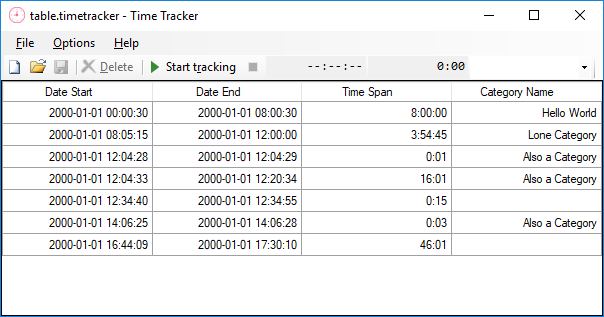
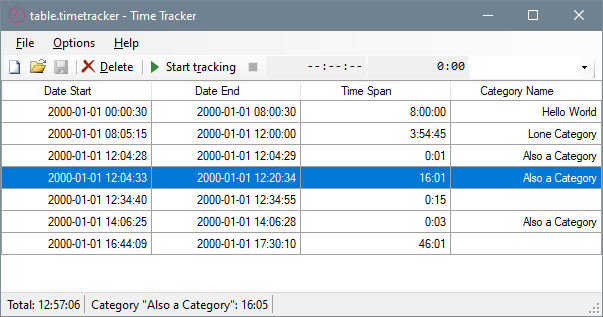
Adds statistics for selected rows and selected category
when only single row is selected

Also updates program screenshot.

diff --git a/TimeTracker/Form/Application.cs b/TimeTracker/Form/Application.cs
@@ -1,14 +1,15 @@
 using System;
-using System.IO;
+using System.Collections;
+using System.Collections.Generic;
 using System.ComponentModel;
+using System.Globalization;
+using System.IO;
+using System.Linq;
+using System.Resources;
+using System.Text.RegularExpressions;
 using System.Windows.Forms;
 using TimeTracker.Model;
 using TimeTracker.Properties;
-using System.Text.RegularExpressions;
-using System.Collections.Generic;
-using System.Linq;
-using System.Globalization;
-using System.Resources;
 
 namespace TimeTracker.Form
 {
@@ -121,7 +122,7 @@ namespace TimeTracker.Form
         /// </summary>
         private void BuildLanguageSelection()
         {
-            Dictionary<string,string> items = new Dictionary<string, string>(){
+            Dictionary<string, string> items = new Dictionary<string, string>(){
                 {"none", Resources.Application_language_default },
                 {"en",  "English" },
                 {"cs",  "Čeština" },
@@ -231,8 +232,43 @@ namespace TimeTracker.Form
 
         private void RefreshStatistics()
         {
-            var total = Data.Sum(row => row.GetTimeElapsed());
-            this.statsTotalText.Text = String.Format(Properties.Resources.Application_statsTotal_Text, total.Format());
+            TimeSpan statTotal = Data.Sum(value => value.GetTimeElapsed());
+            this.statsTotalText.Text = String.Format(Properties.Resources.Application_statsTotal_Text, statTotal.Format());
+
+            DataGridView grid = this.dataGridViewMain;
+
+            if (grid.SelectedRows.Count > 1)
+            {
+                var selectionEnumerator = grid.SelectedRows.GetEnumerator();
+                TimeSpan statSelection = new TimeSpan();
+                while (selectionEnumerator.MoveNext())
+                {
+                    var row = (DataGridViewRow)selectionEnumerator.Current;
+                    var data = (TimeTrackerData)row.DataBoundItem;
+                    statSelection = statSelection.Add(data.GetTimeElapsed());
+                }
+
+                this.statsSelectedText.Text = String.Format(Properties.Resources.Application_statsSelected_Text, grid.SelectedRows.Count, statSelection.Format());
+                this.statsSelectedText.Visible = true;
+            }
+            else
+            {
+                this.statsSelectedText.Visible = false;
+            }
+
+            if (grid.SelectedRows.Count == 1)
+            {
+                var selected = (TimeTrackerData)grid.SelectedRows[0].DataBoundItem;
+                var category = selected.Category;
+                TimeSpan statCategory = Data.Where(value => category == null ? value.Category == null : value.Category != null && value.Category.Equals(category)).Sum(value => value.GetTimeElapsed());
+
+                this.statsCategoryText.Text = String.Format(Properties.Resources.Application_statsCategory_Text, category == null ? "" : category.Name, statCategory.Format());
+                this.statsCategoryText.Visible = true;
+            }
+            else
+            {
+                this.statsCategoryText.Visible = false;
+            }
         }
 
         /// <summary>
@@ -274,6 +310,7 @@ namespace TimeTracker.Form
         private void dataGridViewMain_SelectionChanged(object sender, EventArgs e)
         {
             RefreshEditButtons();
+            RefreshStatistics();
         }
 
         /// <summary>

diff --git a/TimeTracker/Form/Application.Designer.cs b/TimeTracker/Form/Application.Designer.cs
@@ -42,6 +42,8 @@
             this.CategoryName = new System.Windows.Forms.DataGridViewTextBoxColumn();
             this.statusStrip = new System.Windows.Forms.StatusStrip();
             this.statsTotalText = new System.Windows.Forms.ToolStripStatusLabel();
+            this.statsSelectedText = new System.Windows.Forms.ToolStripStatusLabel();
+            this.statsCategoryText = new System.Windows.Forms.ToolStripStatusLabel();
             this.mainMenuStrip = new System.Windows.Forms.MenuStrip();
             this.fileToolStripMenuItem1 = new System.Windows.Forms.ToolStripMenuItem();
             this.newToolStripMenuItem = new System.Windows.Forms.ToolStripMenuItem();
@@ -181,14 +183,29 @@
             // statusStrip
             // 
             this.statusStrip.Items.AddRange(new System.Windows.Forms.ToolStripItem[] {
-            this.statsTotalText});
+            this.statsTotalText,
+            this.statsSelectedText,
+            this.statsCategoryText});
             resources.ApplyResources(this.statusStrip, "statusStrip");
             this.statusStrip.Name = "statusStrip";
             // 
             // statsTotalText
             // 
+            this.statsTotalText.BorderSides = System.Windows.Forms.ToolStripStatusLabelBorderSides.Right;
             this.statsTotalText.Name = "statsTotalText";
             resources.ApplyResources(this.statsTotalText, "statsTotalText");
+            // 
+            // statsSelectedText
+            // 
+            this.statsSelectedText.BorderSides = System.Windows.Forms.ToolStripStatusLabelBorderSides.Right;
+            this.statsSelectedText.Name = "statsSelectedText";
+            resources.ApplyResources(this.statsSelectedText, "statsSelectedText");
+            // 
+            // statsCategoryText
+            // 
+            this.statsCategoryText.BorderSides = System.Windows.Forms.ToolStripStatusLabelBorderSides.Right;
+            this.statsCategoryText.Name = "statsCategoryText";
+            resources.ApplyResources(this.statsCategoryText, "statsCategoryText");
             // 
             // mainMenuStrip
             // 
@@ -500,6 +517,8 @@
         private System.Windows.Forms.ToolStripSeparator toolStripSeparator3;
         private System.Windows.Forms.StatusStrip statusStrip;
         private System.Windows.Forms.ToolStripStatusLabel statsTotalText;
+        private System.Windows.Forms.ToolStripStatusLabel statsSelectedText;
+        private System.Windows.Forms.ToolStripStatusLabel statsCategoryText;
     }
 }
 

diff --git a/TimeTracker/Properties/Resources.Designer.cs b/TimeTracker/Properties/Resources.Designer.cs
@@ -178,6 +178,24 @@ namespace TimeTracker.Properties {
         }
         
         /// <summary>
+        ///   Looks up a localized string similar to Category &quot;{0}&quot;: {1}.
+        /// </summary>
+        internal static string Application_statsCategory_Text {
+            get {
+                return ResourceManager.GetString("Application_statsCategory_Text", resourceCulture);
+            }
+        }
+        
+        /// <summary>
+        ///   Looks up a localized string similar to Selection ({0}): {1}.
+        /// </summary>
+        internal static string Application_statsSelected_Text {
+            get {
+                return ResourceManager.GetString("Application_statsSelected_Text", resourceCulture);
+            }
+        }
+        
+        /// <summary>
         ///   Looks up a localized string similar to Total: {0}.
         /// </summary>
         internal static string Application_statsTotal_Text {
